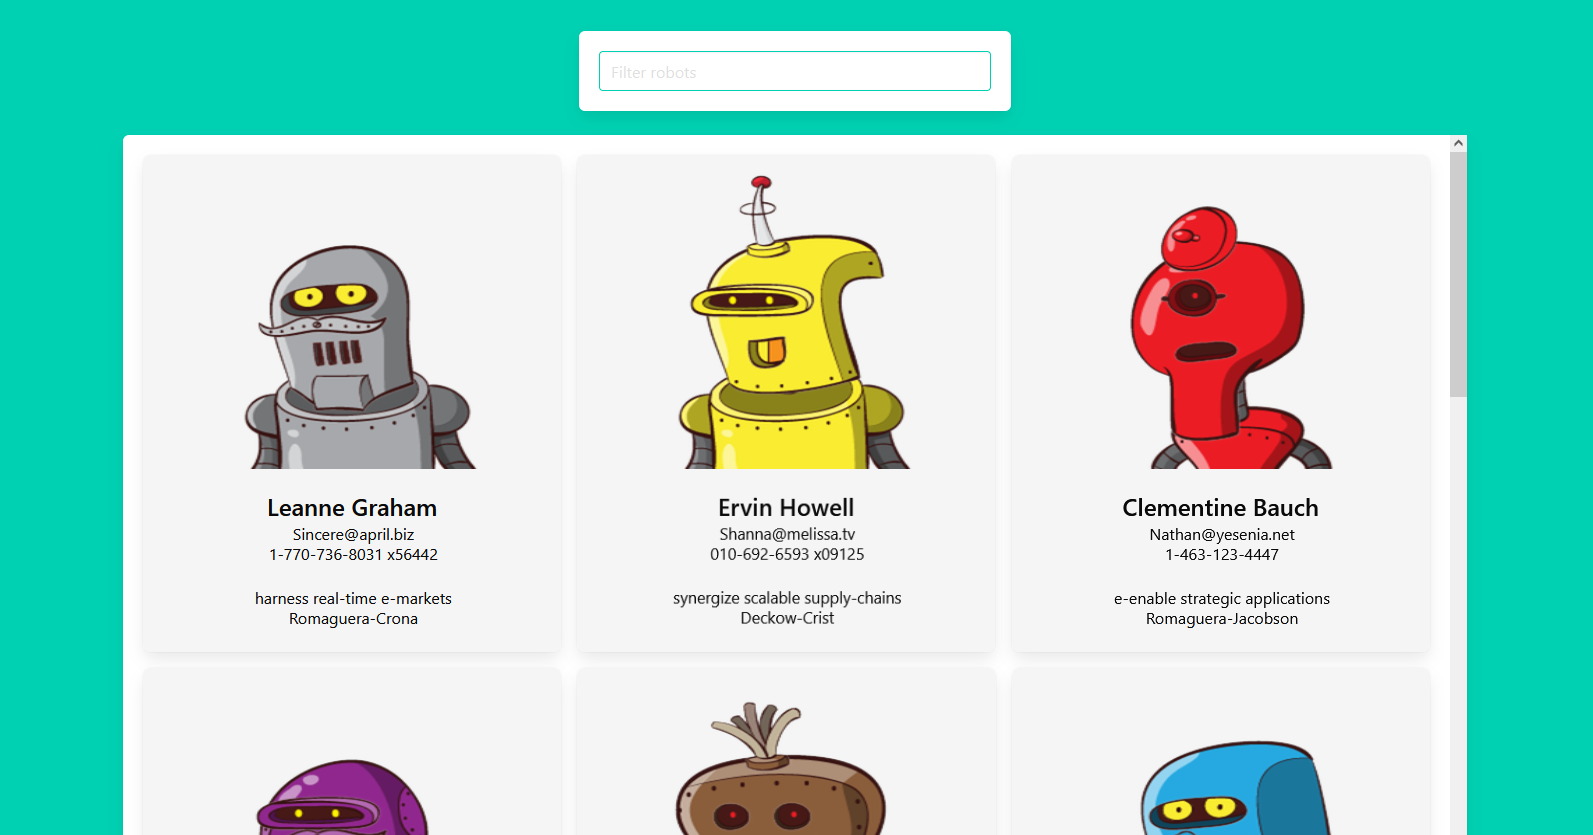
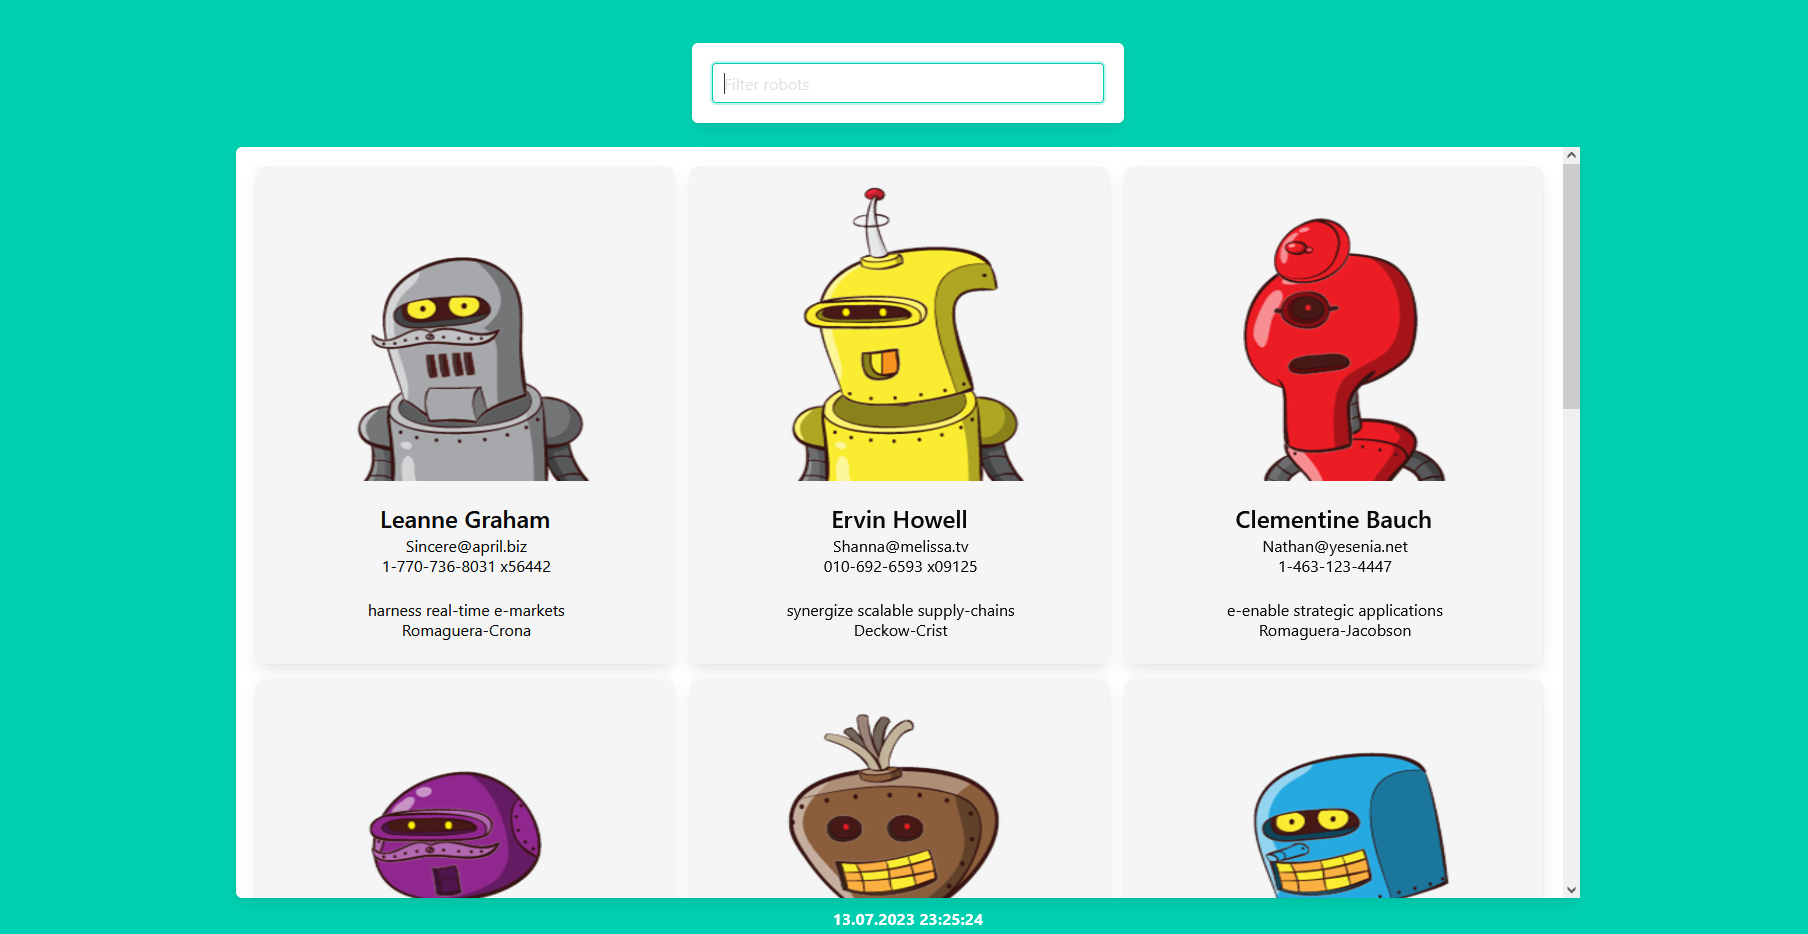
added time to footer on page

Changed region(s): [[0.0615, 0.0311, 0.9228, 1.0], [0.6767, 0.218, 0.8305, 0.685], [0.7075, 0.7162, 0.8305, 0.7473]]

diff --git a/src/main.ts b/src/main.ts
@@ -2,6 +2,7 @@ import 'bulma'
 import './style.css'
 import { getData, addSearchInput, showError } from './init.js'
 import { drawPeople } from './people'
+import {timer} from './timer.js'
 
 document.querySelector<HTMLDivElement>('#app')!.innerHTML = `
 <div class="hero-body">
@@ -13,9 +14,11 @@ document.querySelector<HTMLDivElement>('#app')!.innerHTML = `
               </div>
             </div>
           </div>
-          <div id="field" class="box"></div>
-        </div>
+        <div id="field" class="box">
       </div>
+      <div class="container has-text-centered" id="footer"></div>
+    </div>
+  </div>
 `
 
 const dataPromise = getData();
@@ -30,4 +33,11 @@ async function start(data: any) {
   }
 }
 export const fieldDiv = document.querySelector<HTMLInputElement>("#field")!;
+export const footerDiv = document.querySelector<HTMLInputElement>("#footer")!;
+
+timer()
+setInterval(() => {
+  timer()
+}, 1000);
+
 start(dataArray);

diff --git a/src/timer.ts b/src/timer.ts
@@ -1,0 +1,33 @@
+import {footerDiv} from './main.js'
+
+export function timer() {
+  const d = new Date();
+
+  const month = addingZero(d.getMonth() + 1),
+    day = addingZero(d.getDate()),
+    hour = addingZero(d.getHours()),
+    minute = addingZero(d.getMinutes()),
+    second = addingZero(d.getSeconds());
+
+  footerDiv.innerHTML =
+    day +
+    "." +
+    month +
+    "." +
+    d.getFullYear() +
+    " " +
+    " " +
+    hour +
+    ":" +
+    minute +
+    ":" +
+    second;
+}
+
+function addingZero(inputValue: number) {
+  if (inputValue < 10) {
+    return "0" + inputValue;
+  } else {
+    return inputValue;
+  }
+}

diff --git a/src/style.css b/src/style.css
@@ -8,6 +8,14 @@ html {
   grid-gap: 1em;
   overflow-y: auto;
 }
+#footer {
+  position: fixed;
+  bottom: 0.25rem;
+  text-align: center;
+  display: inline-table;
+  font-weight: bold;
+  width: 80%;
+}
 .card {
   max-height: 32rem;
   transition: transform 0.5s ease;
